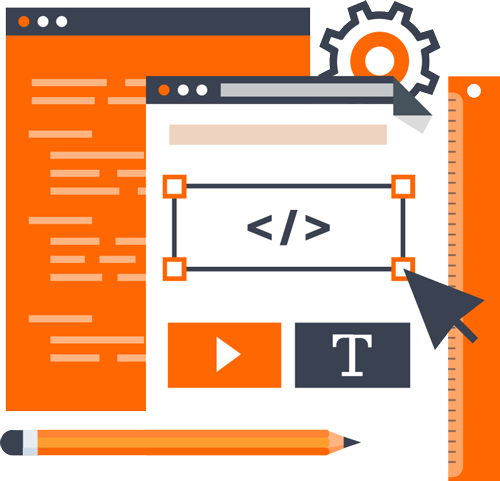
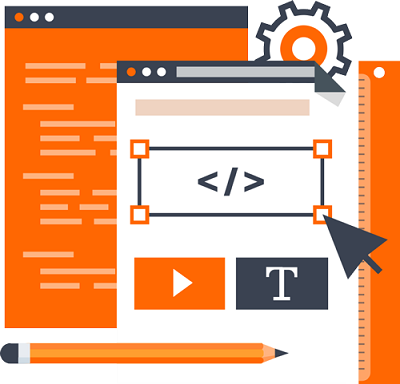
bordas pretas !

diff --git a/_css/estilo.css b/_css/estilo.css
@@ -144,7 +144,7 @@ div#start nav#explicação img#tecnologias {
 div#start nav#explicação figure.tech figcaption.texto hgroup {
 	opacity: 0;
 	position: absolute;
-	background-color: rgba(32, 31, 31, 0.876);
+	background-color: rgba(32, 31, 31, 0.876);;
 	color: azure;
 	width: 380px;
 	height: 330px;
@@ -233,7 +233,10 @@ div#middle figure#leg-den:hover figcaption.Foto-Legenda {
 div#imgs figure.web3 img#web3 {
 	position: absolute;
 	left: 772px;
-	top: 700px;
+	top: 720px;
+	margin: 0.5em;
+	padding: 1.5em;
+	background-color: black;
 }
 
 div#imgs figure.web img#web-dev {
@@ -241,6 +244,8 @@ div#imgs figure.web img#web-dev {
     margin-left: auto;
 	margin-right: auto;
 	margin-top: 1160px;
+	padding: 1.5em;
+	background-color: black;
 }
 
 footer#rodape {

diff --git a/index.html b/index.html
@@ -70,7 +70,7 @@
             <img id="web3" src="_imagens/web3.png" title="Web Devolper">
         </figure>
         <figure class="web">
-            <img id="web-dev" src="_imagens/web.jpg">
+            <img id="web-dev" src="_imagens/web.jpg" title="Web Devolper">
         </figure>
     </div>
 
